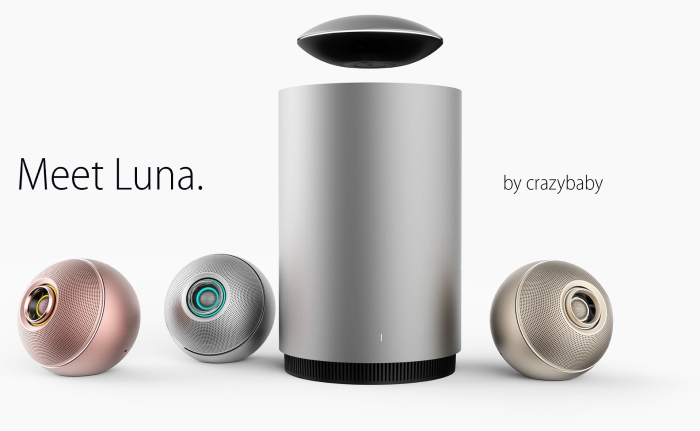
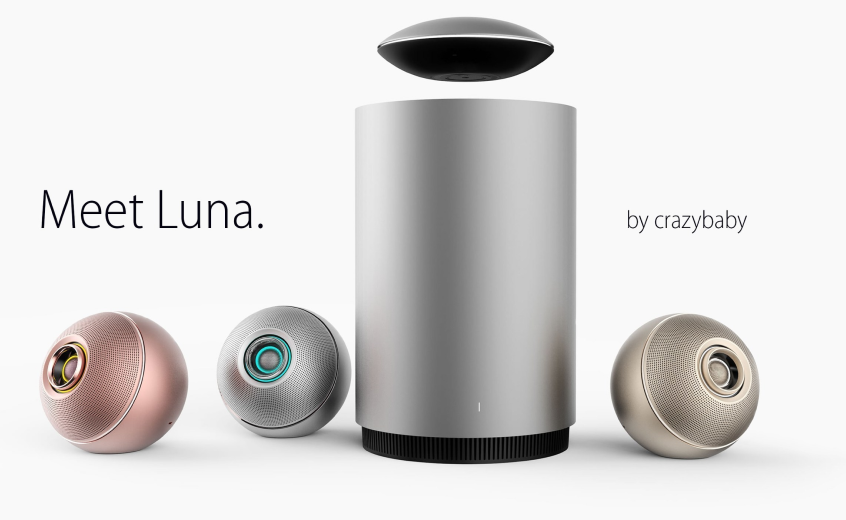
fix horizontal scrollbar on tablet/desktop

Changed region(s): [[0.03, 0.0302, 0.9, 0.9049], [0.03, 0.3619, 0.3, 0.4524], [0.72, 0.3921, 0.9, 0.4524]]

diff --git a/src/styles/blocks/features.scss b/src/styles/blocks/features.scss
@@ -1,49 +1,57 @@
 .features {
-  &__content {
-    @include page-grid;
+  @include padding-inline;
+  @include page-grid;
 
+  &__content {
+    grid-column: 1 / -1;
     padding-bottom: 90px;
   }
 
   &__title {
-    @include padding-inline;
-
     grid-column: 1 / -1;
     padding-bottom: 32px;
   }
 
   &__container {
-    @include padding-inline;
-    @include page-grid;
-
-    grid-column: 1 / -1;
+    display: block;
     padding-block: 30px 175px;
     position: relative;
     z-index: 1;
 
     @include on-tablet {
+      display: grid;
       padding-block: 60px 175px;
     }
 
+    @include on-desktop {
+      display: grid;
+      padding-block: 60px;
+    }
+
     &::before {
+      @include padding-inline;
+
       content:'';
+      margin-inline: -30px;
       background: url(/src/images/features.png) no-repeat bottom, #D6ECEC;
       position: absolute;
       background-blend-mode: darken, normal;
       background-size: 95%;
       display: block;
       height: 100%;
-      width: 100vw;
+      width: 100%;
       top: 0;
       left: 0;
       z-index: -1;
 
       @include on-tablet {
-        background-size: 60%;
+        margin-inline: -34px;
+        background-size: 50%;
         background-position: bottom right;
       }
 
       @include on-desktop {
+        margin-inline: -123px;
         background-size: 50%;
         background-position: bottom right;
       }

diff --git a/src/index.html b/src/index.html
@@ -187,17 +187,11 @@
     <!-- #endregion -->
     <!-- #region video -->
     <section class="video">
-      <article class="video__container">
-        <iframe
-          class="video__responsive"
-          width="560"
-          height="315"
-          src="https://www.youtube.com/embed/VjVSYsMzmEU?si=4qnn_HWmDKc7U53R"
-          title="YouTube video player"
-          allow="accelerometer; autoplay; clipboard-write; encrypted-media; gyroscope; picture-in-picture; web-share"
-          allowfullscreen>
-        </iframe>
-      </article>
+      <img
+        src="/src/images/meet-luna.png"
+        alt="Meet Luna"
+        class="video__image"
+      >
     </section>
     <!-- #endregion -->
     <!-- #region our story -->

diff --git a/src/styles/blocks/video.scss b/src/styles/blocks/video.scss
@@ -1,22 +1,28 @@
 .video {
+  display: flex;
+  align-items: center;
+  justify-content: center;
   padding-inline: 12px;
   padding-bottom: 110px;
 
-  @include on-desktop {
-    padding-inline: 297px;
-    padding-bottom: 170px;
+  @include on-tablet {
+    padding-inline: 34px;
+    padding-bottom: 140px;
 
   }
-  &__container {
-    position: relative;
-    overflow: hidden;
-    width: 100%;
-    padding-top: 50%;
+  
+  @include on-desktop {
+    display: grid;
+    place-items: center;
+    padding-bottom: 170px;
   }
-  &__responsive {
-    position: absolute;
-    inset: 0;
+
+  &__image {
     width: 100%;
-    height: 100%;
+    object-fit: contain;
+
+    @include on-desktop {
+      width: 70%;
+    }
   }
 }

diff --git a/src/styles/blocks/menu.scss b/src/styles/blocks/menu.scss
@@ -1,5 +1,6 @@
 .menu {
   box-sizing: border-box;
+  width: calc(100% - 10px);
   height: 100vh;
   background: $c-bg;
   overflow: auto;

diff --git a/src/styles/blocks/header.scss b/src/styles/blocks/header.scss
@@ -5,6 +5,7 @@
 
   box-sizing: border-box;
   overflow: hidden;
+  width: 100%;
   height: 100vh;
   grid-template-rows: 74px 1fr 1fr;
 
